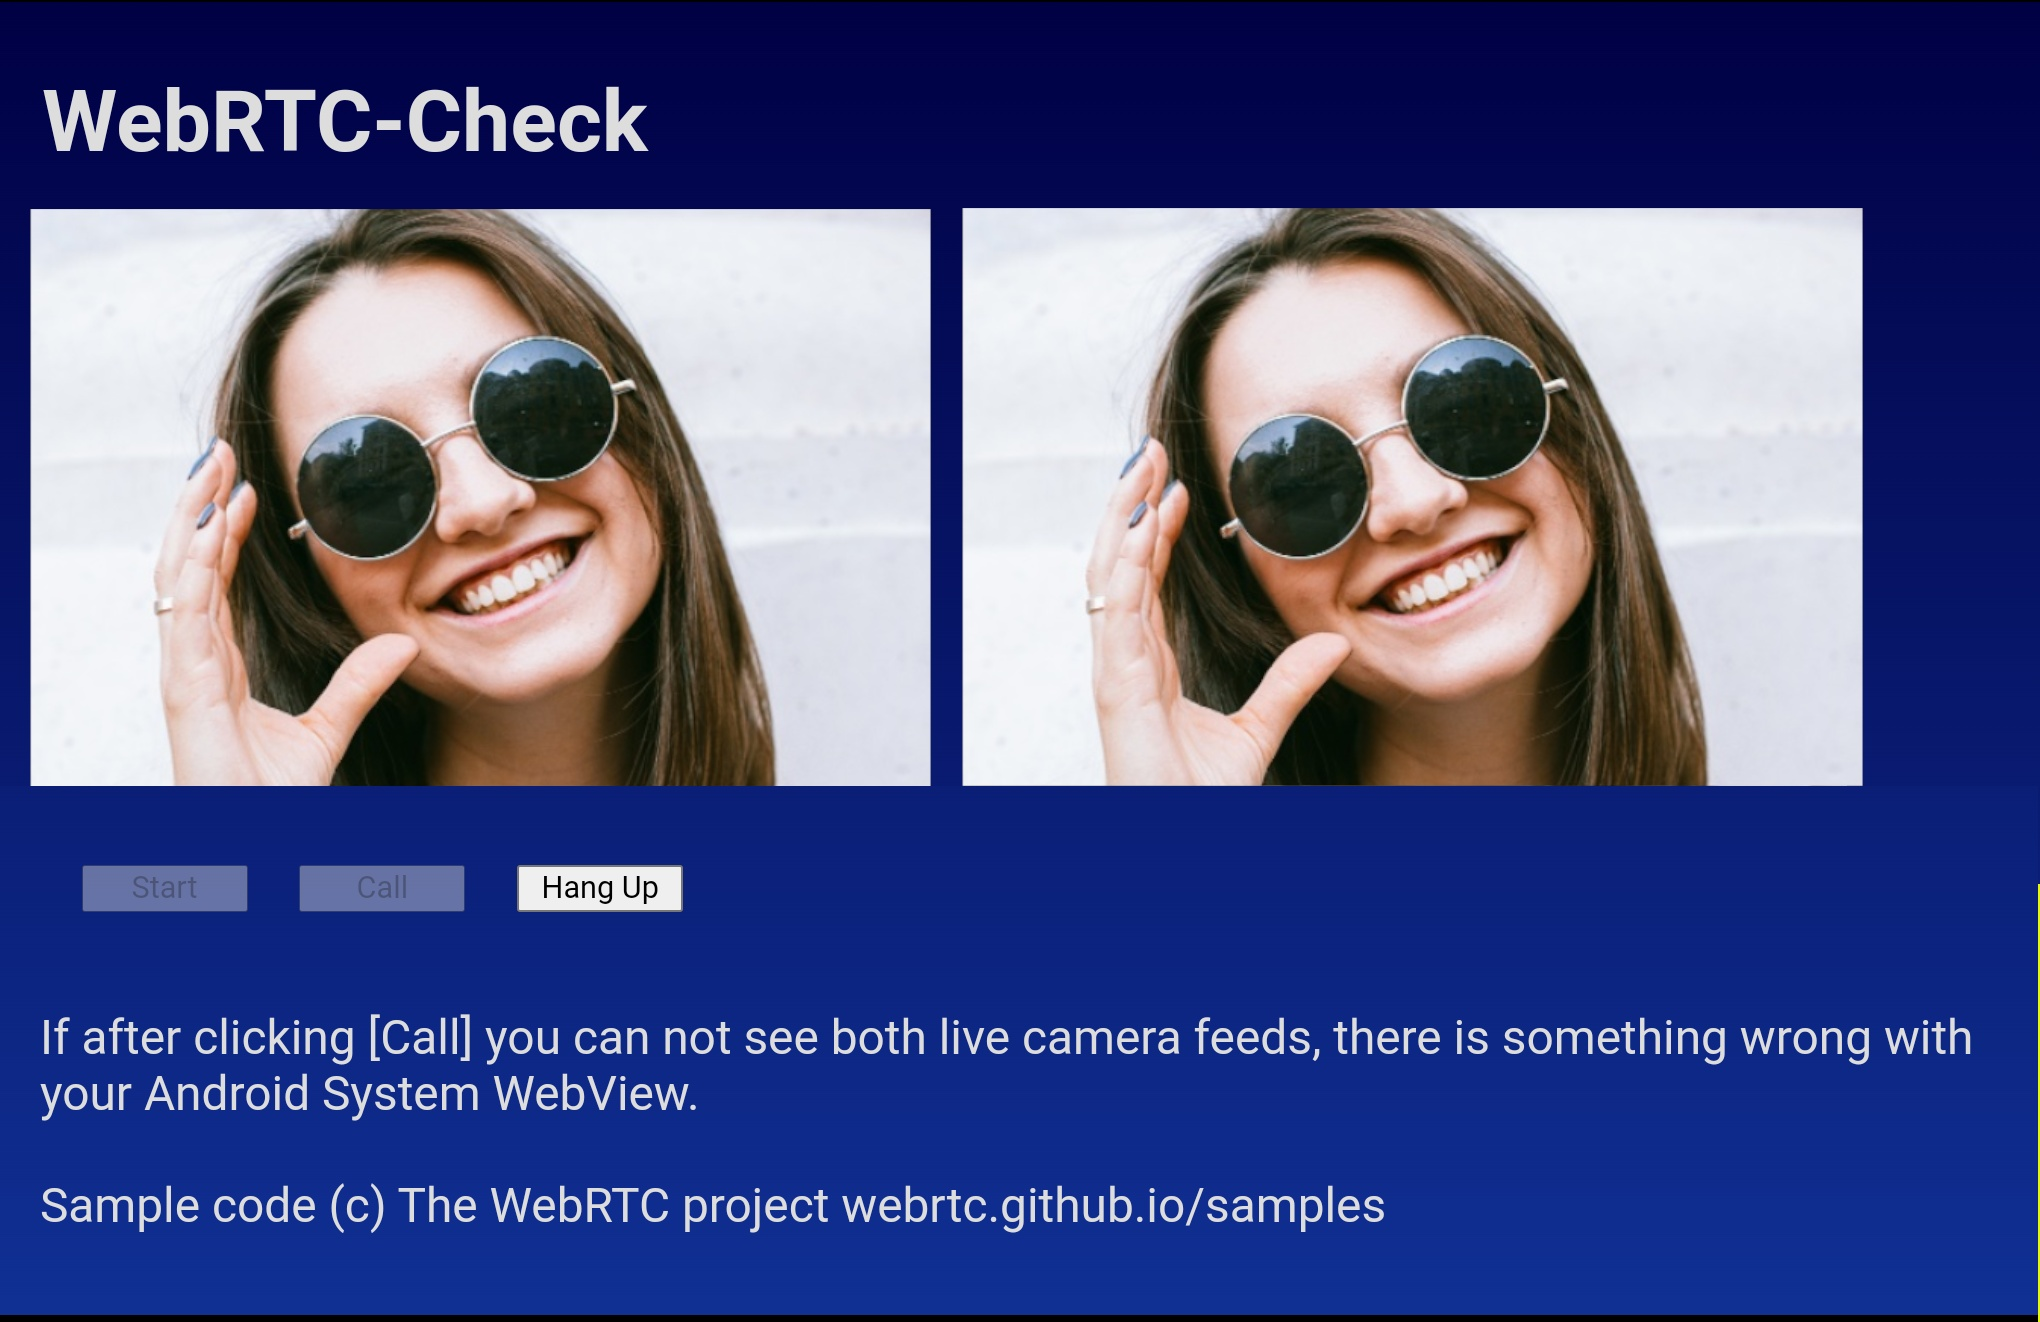
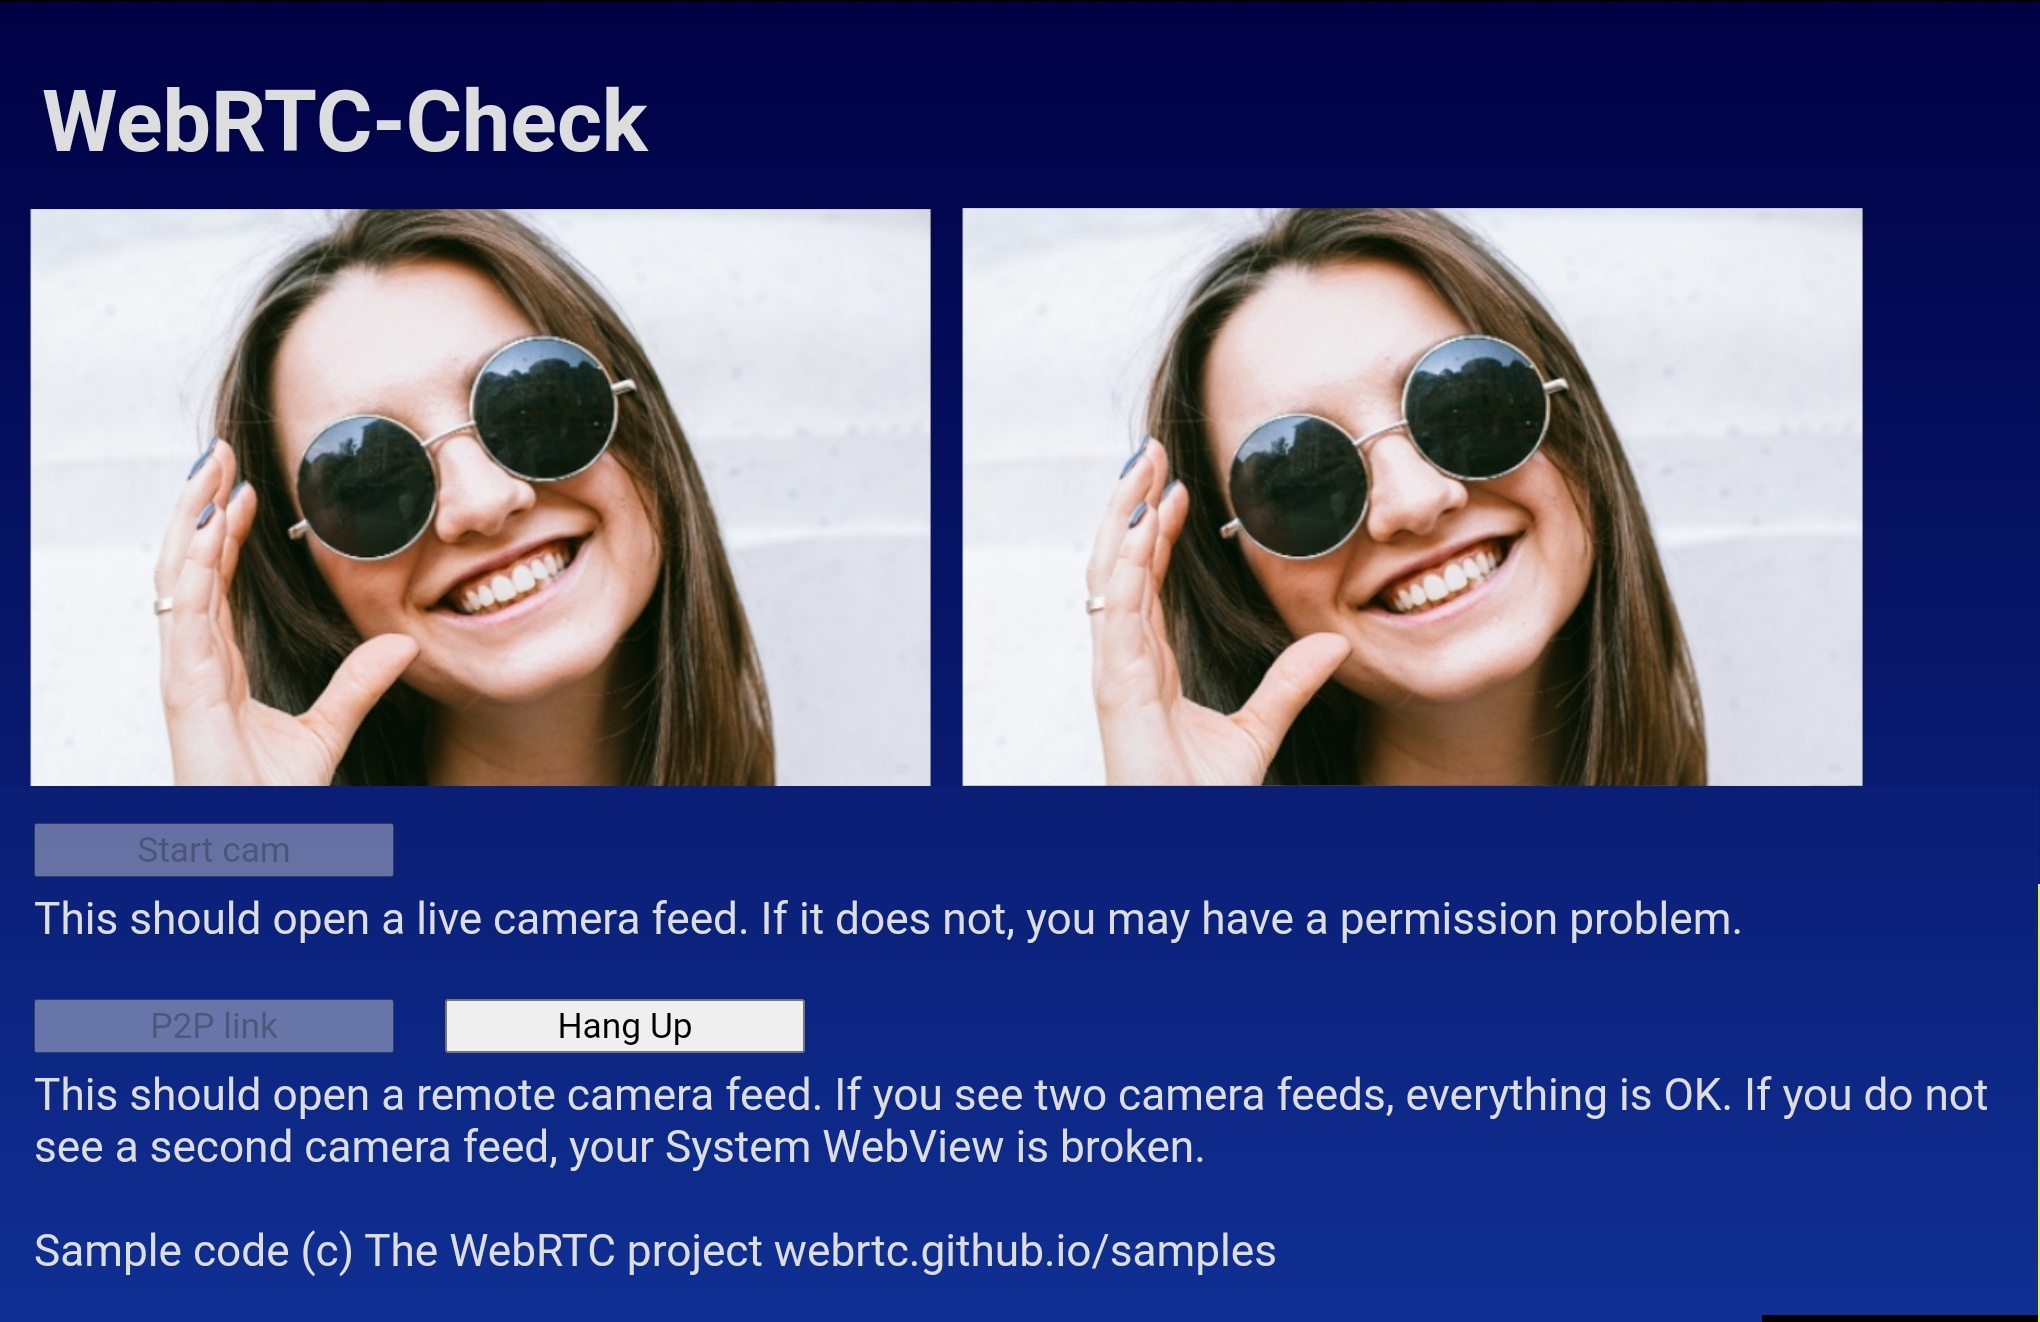
added webview version to 1st page; reworked text on 2nd page to make clear what is a proper outcome and how the webview error shows up; reworked css to make both cam feeds work side by side on small/narrow screen

Changed region(s): [[0.0, 0.6823, 1.0, 1.0], [0.0, 0.6203, 0.8647, 0.7133], [0.0, 0.9924, 0.8647, 1.0]]

diff --git a/src/main/assets/index.html b/src/main/assets/index.html
@@ -20,7 +20,7 @@ body {
 	width:100%; height:100%;
 	font-family:Sans-Serif;
 	font-weight:400;
-	font-size:1.3em;
+	font-size:1.2em;
 	margin:0;
 }
 
@@ -61,19 +61,27 @@ label {
 <h1 id="title">WebRTC-Check</h1>
 WebRTC-Check will test your System WebView component
 with a mini all-in-one video conferencing app.
-<br><br>
-What is special: You will be able to see both sides on the same screen.
+<b>What is special:</b> You don't need two devices. You can see both peers on the same screen.
 <br><br>
 A real peer-to-peer network connection will be established. 
 The remote camera feed on the right will have a slight lag.
 The delay is caused by the video stream being encrypted, sent over and being decrypted again.
 Audio is muted to prevent feedback noises.
 <br><br>
-<a href="Screenshot_WebRTC-Check.html">Show preview screenshot</a><br><br>
-<a href="pc1/index.html">Start WebRTC-Check</a><br><br>
-<div style="font-size:0.7em">(c)2022 <a href="https://timur.mobi/webcall/android/">timur.mobi</a></div>
+
+Active WebView version: <b><span id="webviewversion"></span></b>
+<br><br>
+
+<!--a href="Screenshot_WebRTC-Check.html">Show preview screenshot</a><br><br>-->
+
+<a href="pc1/index.html" style="font-size:1.2em;margin-top:15px;">Run WebRTC-Check</a><br><br>
+
+<div style="font-size:0.7em;margin-top:12px;">(c)2022 <a href="https://timur.mobi/webcall/android/">timur.mobi</a></div>
 </div>
 
 </body>
+<script>
+document.getElementById("webviewversion").innerHTML = Android.webviewVersion();
+</script>
 </html>
 

diff --git a/src/main/assets/pc1/index.html b/src/main/assets/pc1/index.html
@@ -26,16 +26,19 @@
 
     <video id="localVideo" playsinline autoplay muted></video>
     <video id="remoteVideo" playsinline autoplay></video>
-
-    <div class="box">
-        <button id="startButton">Start</button>
-        <button id="callButton">Call</button>
-        <button id="hangupButton">Hang Up</button>
-    </div>
 	<br>
-	If after clicking [Call] you do NOT see two live camera feeds,
-	there is something wrong with your Android System WebView.
+
+	<button id="startButton">Start cam</button><br>
+	This should open a live camera feed.
+	If it does not, you may have a permission problem.
 	<br><br>
+
+	<button id="callButton">P2P link</button> <button id="hangupButton">Hang Up</button><br>
+	This should open a remote camera feed.
+	If you see two camera feeds, everything is OK.
+	If you do not see a second camera feed, your System WebView is broken.
+	<br><br>
+
 	Sample code (c) The WebRTC project webrtc.github.io/samples
 	<br><br><br>
 </div>

diff --git a/src/main/assets/pc1/css/main.css b/src/main/assets/pc1/css/main.css
@@ -15,7 +15,7 @@ body {
 	width:100%; height:100%;
 	font-family:Sans-Serif;
 	font-weight:400;
-	font-size:1.3em;
+	font-size:1.2em;
 	margin:0;
 }
 div#container {
@@ -31,8 +31,9 @@ h1 {
 }
 
 button {
-  margin: 0 20px 0 0;
-  width: 83px;
+  margin: 0px 20px 8px 0;
+  width: 180px;
+  font-size:0.8em;
 }
 
 button#hangupButton {
@@ -62,12 +63,12 @@ div.box {
   }
 
   video {
-    height: 90px;
+    _height: 90px;
     margin: 0 0 10px 0;
     width: calc(50% - 7px);
   }
   video#localVideo {
-    margin: 0 10px 20px 0;
+    margin: 0 5px 20px 0;
   }
 
 }

diff --git a/src/main/java/timur/webrtc/check/WebRTCCheckActivity.java b/src/main/java/timur/webrtc/check/WebRTCCheckActivity.java
@@ -33,6 +33,8 @@ import android.provider.Settings;
 import android.content.pm.PackageManager;
 import android.Manifest;
 
+import java.lang.reflect.Method;
+
 import timur.webrtc.check.BuildConfig;
 
 public class WebRTCCheckActivity extends Activity {
@@ -42,6 +44,7 @@ public class WebRTCCheckActivity extends Activity {
 	private	Context context;
 	private boolean startupFail = false;
 	private String currentUrl = null;
+	private String webviewVersionString = null;
 
 	@Override
 	protected void onCreate(Bundle savedInstanceState) {
@@ -49,14 +52,13 @@ public class WebRTCCheckActivity extends Activity {
 		Log.d(TAG, "onCreate "+BuildConfig.VERSION_NAME);
 		context = this;
 
-		/*
 		// call getCurrentWebViewPackageInfo() to get webview versionName, may fail on old Android / old webview
 		PackageInfo webviewPackageInfo = getCurrentWebViewPackageInfo();
 		if(webviewPackageInfo != null) {
 			Log.d(TAG, "onCreate webview packageInfo "+
 				webviewPackageInfo.packageName+" "+webviewPackageInfo.versionName);
+			webviewVersionString = webviewPackageInfo.versionName+" ("+webviewPackageInfo.packageName+")";
 		}
-		*/
 
 		// the real webview test comes here and we MUST try/catch
 		try {
@@ -169,10 +171,13 @@ public class WebRTCCheckActivity extends Activity {
 				// this replaces android's ugly default video poster with a dark grey background
 				final Bitmap bitmap = Bitmap.createBitmap(1, 1, Bitmap.Config.RGB_565);
 				Canvas canvas = new Canvas(bitmap);
-				canvas.drawARGB(200, 2, 2, 2);
+				canvas.drawARGB(200, 4, 4, 4);
 				return bitmap;
 			}
 		});
+
+		// let JS call java service code
+		myWebView.addJavascriptInterface(new WebCallJSInterface(), "Android");
 
 		currentUrl = "file:///android_asset/index.html";
 		Log.d(TAG, "startWebView load currentUrl="+currentUrl);
@@ -251,6 +256,51 @@ public class WebRTCCheckActivity extends Activity {
 		// accept all changes without restarting the activity
 		super.onConfigurationChanged(newConfig);
 		Log.d(TAG, "onConfigurationChanged "+newConfig);
+	}
+
+	// private
+
+	public class WebCallJSInterface {
+//		static final String TAG = "WebCallJSIntrf";
+
+		@android.webkit.JavascriptInterface
+		public String webviewVersion() {
+			return webviewVersionString;
+		}
+	}
+
+	@SuppressWarnings({"unchecked", "JavaReflectionInvocation"})
+	private PackageInfo getCurrentWebViewPackageInfo() {
+		PackageInfo pInfo = null;
+		if(Build.VERSION.SDK_INT >= Build.VERSION_CODES.O) {
+			Log.d(TAG, "getCurrentWebViewPackageInfo for O+");
+			pInfo = WebView.getCurrentWebViewPackage();
+		} else if(Build.VERSION.SDK_INT >= Build.VERSION_CODES.M) {
+			try {
+				Log.d(TAG, "getCurrentWebViewPackageInfo for M+");
+				Class webViewFactory = Class.forName("android.webkit.WebViewFactory");
+				Method method = webViewFactory.getMethod("getLoadedPackageInfo");
+				pInfo = (PackageInfo)method.invoke(null);
+			} catch(Exception e) {
+				Log.d(TAG, "getCurrentWebViewPackageInfo for M+ ex="+e);
+			}
+			if(pInfo==null) {
+				try {
+					Log.d(TAG, "getCurrentWebViewPackageInfo for M+ (2)");
+					Class webViewFactory = Class.forName("com.google.android.webview.WebViewFactory");
+					Method method = webViewFactory.getMethod("getLoadedPackageInfo");
+					pInfo = (PackageInfo) method.invoke(null);
+				} catch(Exception e2) {
+					//Log.d(TAG, "getCurrentWebViewPackageInfo for M+ (2) ex="+e2);
+				}
+			}
+		} else {
+			// no info before Lollipop
+		}
+		if(pInfo!=null) {
+			Log.d(TAG, "getCurrentWebViewPackageInfo pInfo set");
+		}
+		return pInfo;
 	}
 }
 
